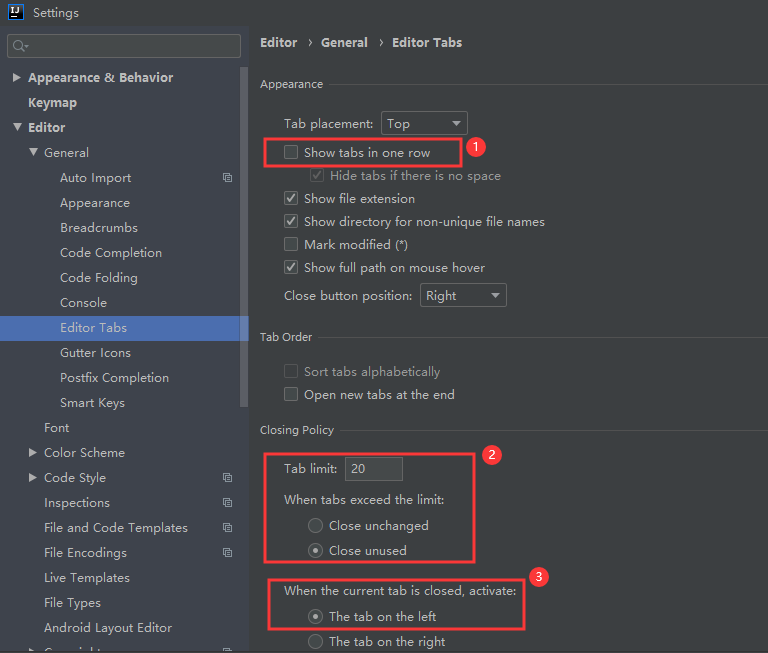
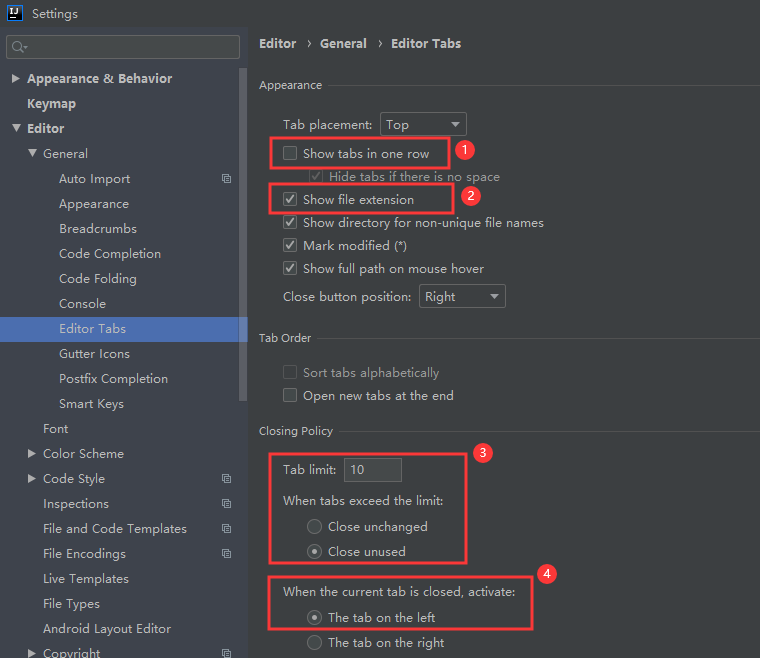
update

diff --git a/intellij-idea/intellij-idea.md b/intellij-idea/intellij-idea.md
@@ -1,4 +1,4 @@
-# IntelliJ IDEA 教程
+IntelliJ IDEA 教程
 
 - 本文主要总结 IDEA 使用的重要知识点。
 - 本文使用的 IDEA 版本为 **2019.2.4 Ultimate Edition** 。
@@ -67,7 +67,7 @@
 
 ## 核心文件和目录介绍
 
-### 安装目录介绍
+### 1. 安装目录介绍
 
 ![1573371589309](images/1573371589309.png)
 
@@ -81,7 +81,7 @@
   - `Help | Edit Custom Properties`
   - `Help | Edit Custom VM Options`
 
-### 配置目录介绍
+### 2. 配置目录介绍
 
 ![1573371804184](images/1573371804184.png)
 
@@ -93,13 +93,13 @@
 
 
 
-### 自定义配置目录
+### 3. 自定义配置目录
 
 - 修改 `config` 和 `system` 目录位置
 
   ``` properties
   # 建议首次打开 IDEA 时，就修改 config 和 system 目录位置
-  # 在初始化页面 Configure | Edit Custom Properties 中进行修改
+  # 在主界面 Configure | Edit Custom Properties 中进行修改
   
   # 该属性主要用于指向 IntelliJ IDEA 的个性化配置目录，注意使用正斜杠
   idea.config.path=${user.home}/.IntelliJIdea/config
@@ -140,7 +140,7 @@
 
 ![1573370471339](images/1573370471339.png)
 
-- 如上2图所示，在开始页面，选择 `Configure | Edit Custom VM Options` 。
+- 如上2图所示，在主界面，选择 `Configure | Edit Custom VM Options` 。
 
 ![1573370284219](images/1573370284219.png)
 
@@ -208,7 +208,7 @@
 
 - 其他默认配置入口：
 
-  **开始页面** `Configure` 中的 `Settings` 和 `Structure For New Projects` 配置项，如下图所示：
+  **主界面** `Configure` 中的 `Settings` 和 `Structure For New Projects` 配置项，如下图所示：
 
   ![1573387507157](images/1573387507157.png)
 
@@ -219,7 +219,7 @@
 
 ### JDK
 
-#### 默认配置（全局配置）
+#### 1. 默认配置（全局配置）
 
 ![1573393410501](images/1573393410501.png)
 
@@ -228,7 +228,7 @@
 
 
 
-#### 项目配置
+#### 2. 项目配置
 
 ![1573393445652](images/1573393445652.png)
 
@@ -237,7 +237,7 @@
 
 
 
-#### SDKs 介绍
+#### 3. SDKs 介绍
 
 ![1573375964677](images/1573375964677.png)
 
@@ -247,7 +247,7 @@
 
 
 
-#### language level 介绍
+#### 4. language level 介绍
 
 ![1570981532564](images/1570981532564.png)
 
@@ -258,7 +258,7 @@
 
 
 
-#### Module 配置 SDK 和 language level
+#### 5. Module 配置 SDK 和 language level
 
 >  Project 中 每个 Module 用到的 `SDK` 和 `language level` 有可能是各不一样的，IntelliJ IDEA 对此也进行了支持。
 
@@ -286,9 +286,21 @@
 ![1573377482875](images/1573377482875.png)
 
 - 配置路径 `File | Settings | Build, Execution, Deployment | Build Tools | Maven | Importing`
-- `Import Maven projects automatically` IntelliJ IDEA 会实时监控项目的 `pom.xml` 文件，进行项目变动设置，即自动更新项目依赖包。
+- `Import Maven projects automatically` IntelliJ IDEA 会实时监控项目的 `pom.xml` 文件，进行项目变动设置，即自动更新项目依赖包，建议勾选。
 - `Automatically download` 在 Maven 导入依赖包的时候是否自动下载源码和文档。默认是没有勾选的，也不建议勾选。
 - `VM options for importer` 可以设置导入的 VM 参数。一般这个都不需要主动改，除非项目真的导入太慢了我们再增大此参数。
+
+
+
+### Maven离线模式
+
+![1575611828835](images/1575611828835.png)
+
+![1575611934915](images/1575611934915.png)
+
+- 配置路径 `File | Settings | Build, Execution, Deployment | Build Tools | Maven`
+- 如上图1 所示，勾选 `Work offline` 选项，开启离线模式。
+- 如上图2 所示，点击 `Toggle Offline Mode` 按钮，也可以开启离线模式。
 
 
 
@@ -426,6 +438,17 @@
 
 
 
+### 方法参数提示
+
+![1573825505826](images/1573825505826.png)
+
+![1573825849448](images/1573825849448.png)
+
+- 配置路径 `File | Settings | Editor | General | Code Completion`
+- 如上图1 所示，勾选 **标注1** 的 3个选项，在使用方法时，IDEA会自动显示方法参数提示；配合快捷键 `Ctrl + P` 的使用，可以查看方法的详细参数或选择同名不同参的方法，如上图2 所示。
+
+
+
 ### 过滤文件类型
 
 ![1573894897619](images/1573894897619.png)
@@ -465,26 +488,16 @@
 
 
 
-### 行号、方法线和形参名
+### 行号、方法线、形参名和空格符
 
-![1573824190580](images/1573824190580.png)
+![1574864307172](images/1574864307172.png)
 
 ![1573824684743](images/1573824684743.png)
 
 - 配置路径 `File | Settings | Editor | General | Appearance`
 - 如上图1 的 **标注1** ，勾选 `Show line numbers` 和 `Show method separators` 可以显示行号和方法线，方法线有助于区分方法，如上图2的 **标注1** 和 **标注2** 所示。
-- 如上图1 的 **标注2** ，取消勾选 `Show parameter name hints` 选项，IDEA 将取消方法形参名提示。如上图2 的 **标注3** 将不会显示。可以按个人喜好选择是否勾选。
-
-
-
-### 方法参数提示
-
-![1573825505826](images/1573825505826.png)
-
-![1573825849448](images/1573825849448.png)
-
-- 配置路径 `File | Settings | Editor | General | Code Completion`
-- 如上图1 所示，勾选 **标注1** 的 3个选项，在使用方法时，IDEA会自动显示方法参数提示；配合快捷键 `Ctrl + P` 的使用，可以查看方法的详细参数或选择同名不同参的方法，如上图2 所示。
+- 如上图1 的 **标注2** ，`Show whitespaces` 选项表示显示空格符，勾选后文件将显示空格符和Tab制表符。
+- 如上图1 的 **标注3** ，取消勾选 `Show parameter name hints` 选项，IDEA 将取消方法形参名提示。如上图2 的 **标注3** 将不会显示。可以按个人喜好选择是否勾选。
 
 
 
@@ -498,8 +511,9 @@
 
 - 配置路径 `File | Settings | Editor | General | Editor Tabs`
 - 在打开很多文件的时候，IntelliJ IDEA 默认是把所有打开的文件名 Tab 单行显示的。个人建议使用多行显示，多行效率比单行高，因为单行会隐藏超过界面部分 Tab，这样找文件不方便。如上图1 的 **标注1** 所示，取消勾选 `Show tabs in one rows` ，将单行显示模式改为多行模式，如上图2 和上图3 所示。
-- 如上图1 的 **标注2** 所示，设置最多可以打开的文件 **Tab个数** 。
-- 如上图1 的 **标注3** 所示，设置关闭当前 Tab页时，默认显示左边的 Tab页。
+- 如上图1 的 **标注2** 所示，选项 `Show file extension` 表示在 Tab 页中显示文件扩展名；
+- 如上图1 的 **标注3** 所示，设置最多可以打开的文件 **Tab个数** 。
+- 如上图1 的 **标注4** 所示，设置关闭当前 Tab页时，默认显示左边的 Tab页。
 
 
 
@@ -624,14 +638,38 @@
 
 
 
+### 添加文件模板
+
+> 当需要新建一个文件时，若发现右键 | New 中没有所需的文件格式，如FreeMarker、Velocity等文件类型，这时可以新建一个文件模板。
+
+![1575436704149](images/1575436704149.png)
+
+- 配置路径 `File | Settings | Editor | File and Code Templates`
+
+- 如上图 **标注1** 所示，点击 `+` 按钮，添加一个新的文件模板；
+
+  图示中的4个按钮功能如下：
+
+  - `Create Template` 创建一个文件代码模板。
+  - `Remove Template` 删除一个文件代码模板，预设模板是不允许删除的，只能删除预设之外的新增的。
+  - `Copy Template` 复制一个文件代码模板。
+  - `Reset To Default` 对被修改的预设文件代码模板，还原到默认状态。
+
+- 如上图 **标注2** 所示，`Name` 为模板名称；`Extension` 是模板后缀名；
+
+- 如上图 **标注3** 所示，此区域可以编辑模板内容；IntelliJ IDEA 的文件代码模板是可以使用 `Velocity Template Language (VTL)` 进行书写的，可以使用 `#if ... #end` 和 `#parse` 等 VTL 语法。自定义变量格式有两种：`$变量名` 或 `${变量名}` 。
+
+- 如上图 **标注4** 所示，勾选 `Enable Live Templates` 选项，可以使用动态变量填充模板；
 
 
-### 设置类导入个数
+
+### Java 类导入设置
 
 ![1573886552119](images/1573886552119.png)
 
 - 配置路径 `File | Settings | Editor | Code Style | Java | Imports`
 - 如上图所示，当 Java 类中导入的某个包下类超过这里设置的指定个数，就会换成用 `*` 号来代替。若不想用 `*` 替换，可以将个数设置的大一点，如 999 。
+- 如上图所示，`Insert imports for inner classes` 选项，表示允许导入内部类，建议勾选。
 
 
 
@@ -773,6 +811,23 @@
 
 
 
+### 背景图片
+
+![1575014710923](images/1575014710923.png)
+
+![1575190668208](images/1575190668208.png)
+
+- 配置路径 `File | Settings | Appearance & Behavior | Appearance`
+- 如上图1 所示，点击 `Background Image..` 按钮，弹出如上图2 所示的背景图片设置窗口。
+- 如上图2 **标注1** ，选择自定义背景图片。
+- 如上图2 **标注2** ，设置图片透明度。
+- 如上图2 **标注3** ，设置图片翻转转，分 **水平翻转** 和 **垂直翻转** 两种。
+- 如上图2 **标注4** ，设置图片填充方式。
+- 如上图2 **标注5** ，设置图片定位方式。
+- 如上图2 **标注6** ，`Editor and tools` 即编辑区和菜单栏部分；`Empty frame` 即 IDEA 主页面，这两部分可以分别设置不同的背景图片。
+
+
+
 ### 清除缓存和索引
 
 > IntelliJ IDEA 的缓存和索引主要是用来加快文件查询，从而加快各种查找、代码提示等操作的速度。但是，IntelliJ IDEA 的索引和缓存并不是一直会良好地支持 IntelliJ IDEA 的，在某些特殊条件下，IntelliJ IDEA 的缓存和索引文件也是会损坏的，比如断电、蓝屏引起的强制关机，当你重新打开 IntelliJ IDEA，基本上百分八十的可能 IntelliJ IDEA 都会报各种莫名其妙错误，甚至项目打不开，IntelliJ IDEA 主题还原成默认状态。也有一些即使没有断电、蓝屏，也会有莫名奇怪的问题的时候，也很有可能是 IntelliJ IDEA 缓存和索引出问题，这种情况还不少。遇到此类问题也不用过多担心，下面就来讲解如何解决。
@@ -848,17 +903,22 @@
 >
 > 
 >
->   - 如上图1，箭头指向的就是手动更新按钮。点击后，弹出如上图2所示的弹出框，也可以在这里选择，默认选中配置的选项。
->   - `Update resources` 更新静态资源文件，运行模式和调试模式都是立即生效。
->   - `Update classes and resources` 更新 Java 文件和静态资源文件。
->     - 运行模式下，修改静态资源文件立即生效；修改 Java 文件不立即生效，需要 `Redeploy` 才能生效。
->     - 调试模式下，修改 Java 文件和静态资源文件都立即生效。
->   - `Redeploy` 重新部署，只是把原来的 war 包删掉，不重启 Tomcat。
->   - `Restart server` 重启 Tomcat 。
+>   - **如上图1，箭头指向的就是手动更新按钮。点击后，弹出如上图2所示的弹出框，也可以在这里选择，默认选中配置的选项。**
+>
+>     - `Update resources` 更新静态资源文件，运行模式和调试模式都是立即生效。
+>
+>     - `Update classes and resources` 更新 Java 文件和静态资源文件。
+>       - 运行模式下，修改静态资源文件立即生效；修改 Java 文件不立即生效，需要 `Redeploy` 才能生效。
+>       - 调试模式下，修改 Java 文件和静态资源文件都立即生效。
+>
+>     - `Redeploy` 重新部署，只是把原来的 war 包删掉，不重启 Tomcat。
+>
+>     - `Restart server` 重启 Tomcat 。
+>
+> 
 >
 > - `On frame deactivation` ：表示 IDEA 失去焦点时，做什么；比如最小化 IDEA 窗口时。
->
->   - `Do nothing` 什么也不做，建议设置成 `Do nothing` ，IDEA 默认也是这个，因为通常情况下 IDEA 失去焦点的几率很大，每次失去焦点就自动触发 update ，耗费 CPU，导致电脑运行减慢。
+> - `Do nothing` 什么也不做，建议设置成 `Do nothing` ，IDEA 默认也是这个，因为通常情况下 IDEA 失去焦点的几率很大，每次失去焦点就自动触发 update ，耗费 CPU，导致电脑运行减慢。
 >   - `Update resources` 同上
 >   - `Update classes and resources` 同上
 
@@ -907,6 +967,77 @@
 
 
 
+### 代码缩进
+
+#### 1. 自动检测缩进
+
+![1574990885774](images/1574990885774.png)
+
+![1574991882169](images/1574991882169.png)
+
+- 配置路径 `File | Settings | Editor | Code Style`
+- 如上图1 **标注1** 所示，勾选 `Detect and use existing file indents for editing` ，表示打开文件时，自动检测并使用现有的文件缩进方式。如原有的缩进方式为Tab制表符缩进，那么即使已经改为空格缩进，也会按制表符缩进。如果需要统一缩进规则，建议取消勾选该选项。
+- 在 IDEA 窗口的 **右下方** 会显示当前文件的缩进方式，如上图2 所示的 `Tab*` ，鼠标悬浮在 `Tab*` 上显示当前文件的缩进方式是自动检测得到的。
+
+#### 2. 文件缩进切换
+
+![1574992464032](images/1574992464032.png)
+
+- 方式一：以上图为例，点击当前文件的缩进方式按钮，如上图中的 `Tab*` ，会弹出缩进选项框。
+  - `Indent New Lines with 4 Spaces` 在新行中使用 4空格缩进，原有的不变。
+  - `Reindent File with 4 Spaces` 使用 4空格重新缩进整个文件。
+  - `Configure Indents for XML...` 配置 XML 格式文件的缩进方式。
+  - `Disable Indents Detection for Project` 禁用项目的缩进检测。
+
+![1574993192983](images/1574993192983.png)
+
+- 方式二：如上图所示，点击菜单 `Edit | Convert Indents` ，弹出缩进方式切换选项。
+  - `To Spaces` 全部使用 **空格** 缩进。
+  - `To Tabs` 全部使用 **制表符** 缩进。
+- 方式三：代码格式化，使用快捷键 `Ctrl + Alt + L` 对代码进行格式化处理。
+
+#### 3. 设置统一缩进
+
+> 以 Java 代码为例，其他类型代码配置方式类似。
+
+![1574994107835](images/1574994107835.png)
+
+- 配置路径 `File | Settings | Editor | Code Style | Java`
+- `Use Tab character` 使用制表符缩进，默认不勾选。**IntelliJ IDEA 中所有的代码格式都默认使用空格缩进。**
+- `Tab size` 设置 Tab 键等于几个空格，默认为 4 。
+- `Indent` 设置缩进占几个空格，默认为 4 。
+- `Continuation indent` 设置连续缩进占几个空格，默认为 8 。
+- `Keep indents on empty lines` 空行是否使用缩进，默认不勾选，即空行不使用缩进。
+
+
+
+### 去掉 mybatis Mapper.xml 警告和背景色
+
+#### 1. 关闭 SQL 代码检测
+
+![1575554264776](images/1575554264776.png)
+
+- 配置路径 `File | Settings | Editor | Inspections | SQL`
+- 如上图所示，取消勾选 `No data sources configured` 和 `SQL dialect detection` 选项，可以去掉 **No data sources configure 警告** 和 **SQL dialect is not configured 警告** 。
+
+#### 2. 去掉 “注入语言” 的背景色
+
+![1575555146895](images/1575555146895.png)
+
+- 配置路径 `File | Settings | Editor | Color Scheme | General`
+- 如上图所示，打开 `Code` 页，选择 `Injected language fragment` ，取消勾选 `Background` 选项。
+
+
+
+### 输入引号或括号等符号包围选中内容
+
+![1576484882081](images/1576484882081.png)
+
+- 配置路径 `File | Settings | Editor | General | Smart Keys`
+- 如上图所示，勾选  `Surround selection on typing quote or brace` 选项，在选中内容后，再输入引号或括号等符号时，会自动包围选中内容，而不是覆盖选中内容。
+
+
+
 ## 快捷键
 
 ### 快捷键修改说明
@@ -930,6 +1061,29 @@
 ![1573484406777](images/1573484406777.png)
 
 - 此快捷键是用来复制并黏贴所选的内容的，但是黏贴的位置是补充在原来的位置后面，用起来不方便；修改后的效果为复制所选的行数完整内容。如上图1 为原快捷键设置，上图2 为修改后的快捷键设置。
+
+
+
+### 快速添加Maven依赖
+
+![1575444747966](images/1575444747966.png)
+
+- 在 `pom.xml` 文件中使用快捷键 `Alt + Insert` ，弹出 `Generate` 窗口。
+
+- 选择 `Dependency` 选项，弹出 jar 包搜索窗口，如下图所示：
+
+  ![1575445272085](images/1575445272085.png)
+
+  - 如上图 **标注1** 所示，输入 jar 包关键字，进行搜索。
+  - 如上图 **标注2** 所示，点击三角图标，有各 jar 包版本可供选择。
+
+- 选择 `Managed Dependency` 选项，弹出依赖选择框，其中的 jar 包都是父类依赖管理中的 jar 包。如下图所示：
+
+  ![1575446606206](images/1575446606206.png)
+
+- 选择 `Dependency Template` 选项，自动生成添加依赖模板，如下图所示：
+
+  ![1575446764692](images/1575446764692.png)
 
 
 
